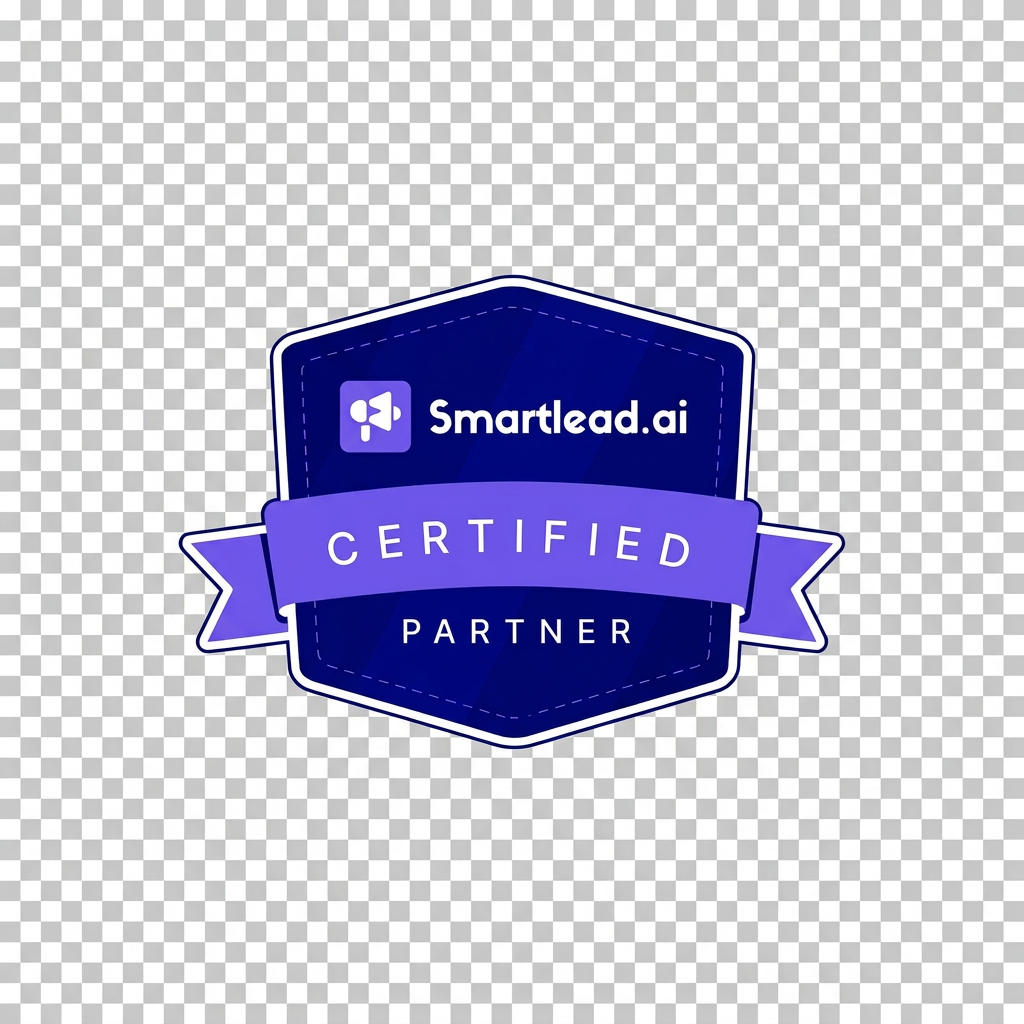
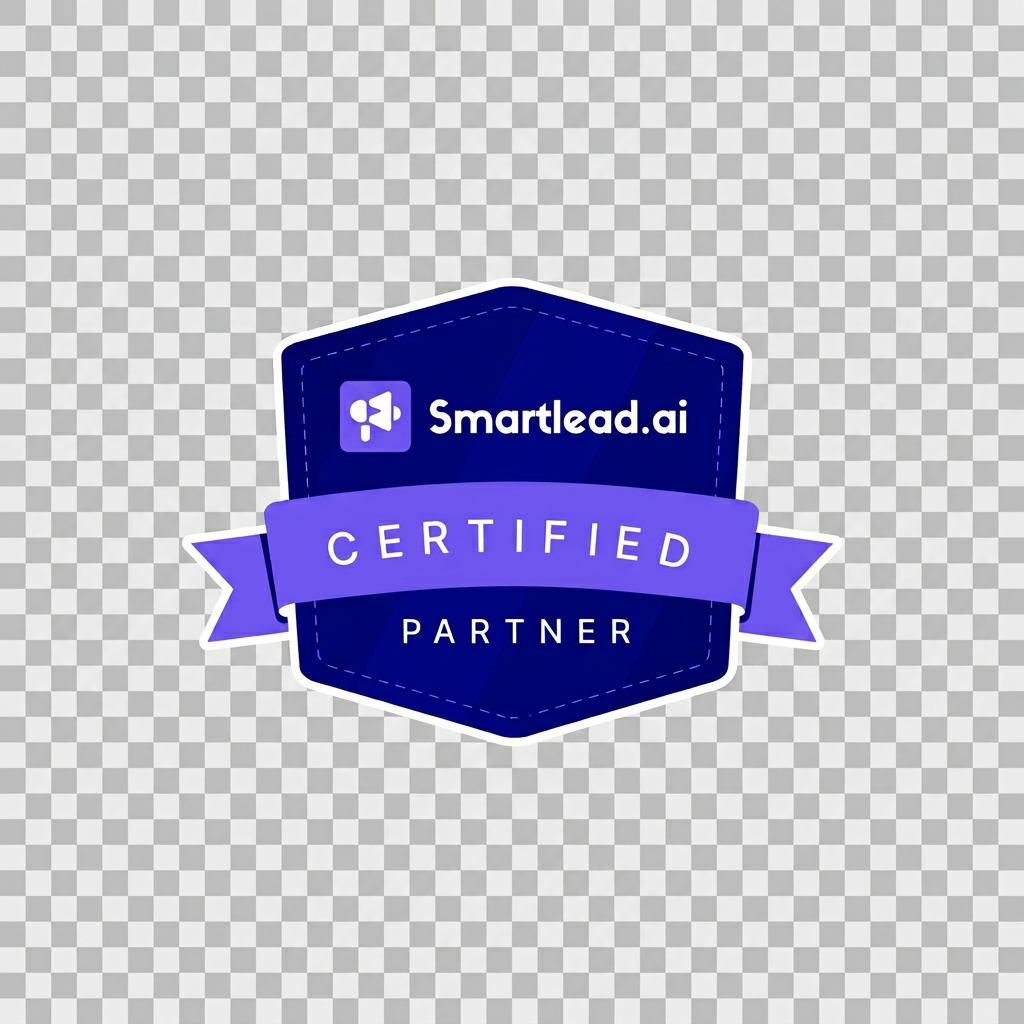
Changes

diff --git a/src/components/CertifiedPartners.tsx b/src/components/CertifiedPartners.tsx
@@ -39,7 +39,7 @@ const CertifiedPartners = () => {
                 <img
                   src={partner.logo}
                   alt={`${partner.name} certified partner badge`}
-                  className="max-h-full max-w-full object-contain mix-blend-multiply dark:mix-blend-screen"
+                  className="max-h-full max-w-full object-contain"
                   loading="lazy"
                 />
               </div>
